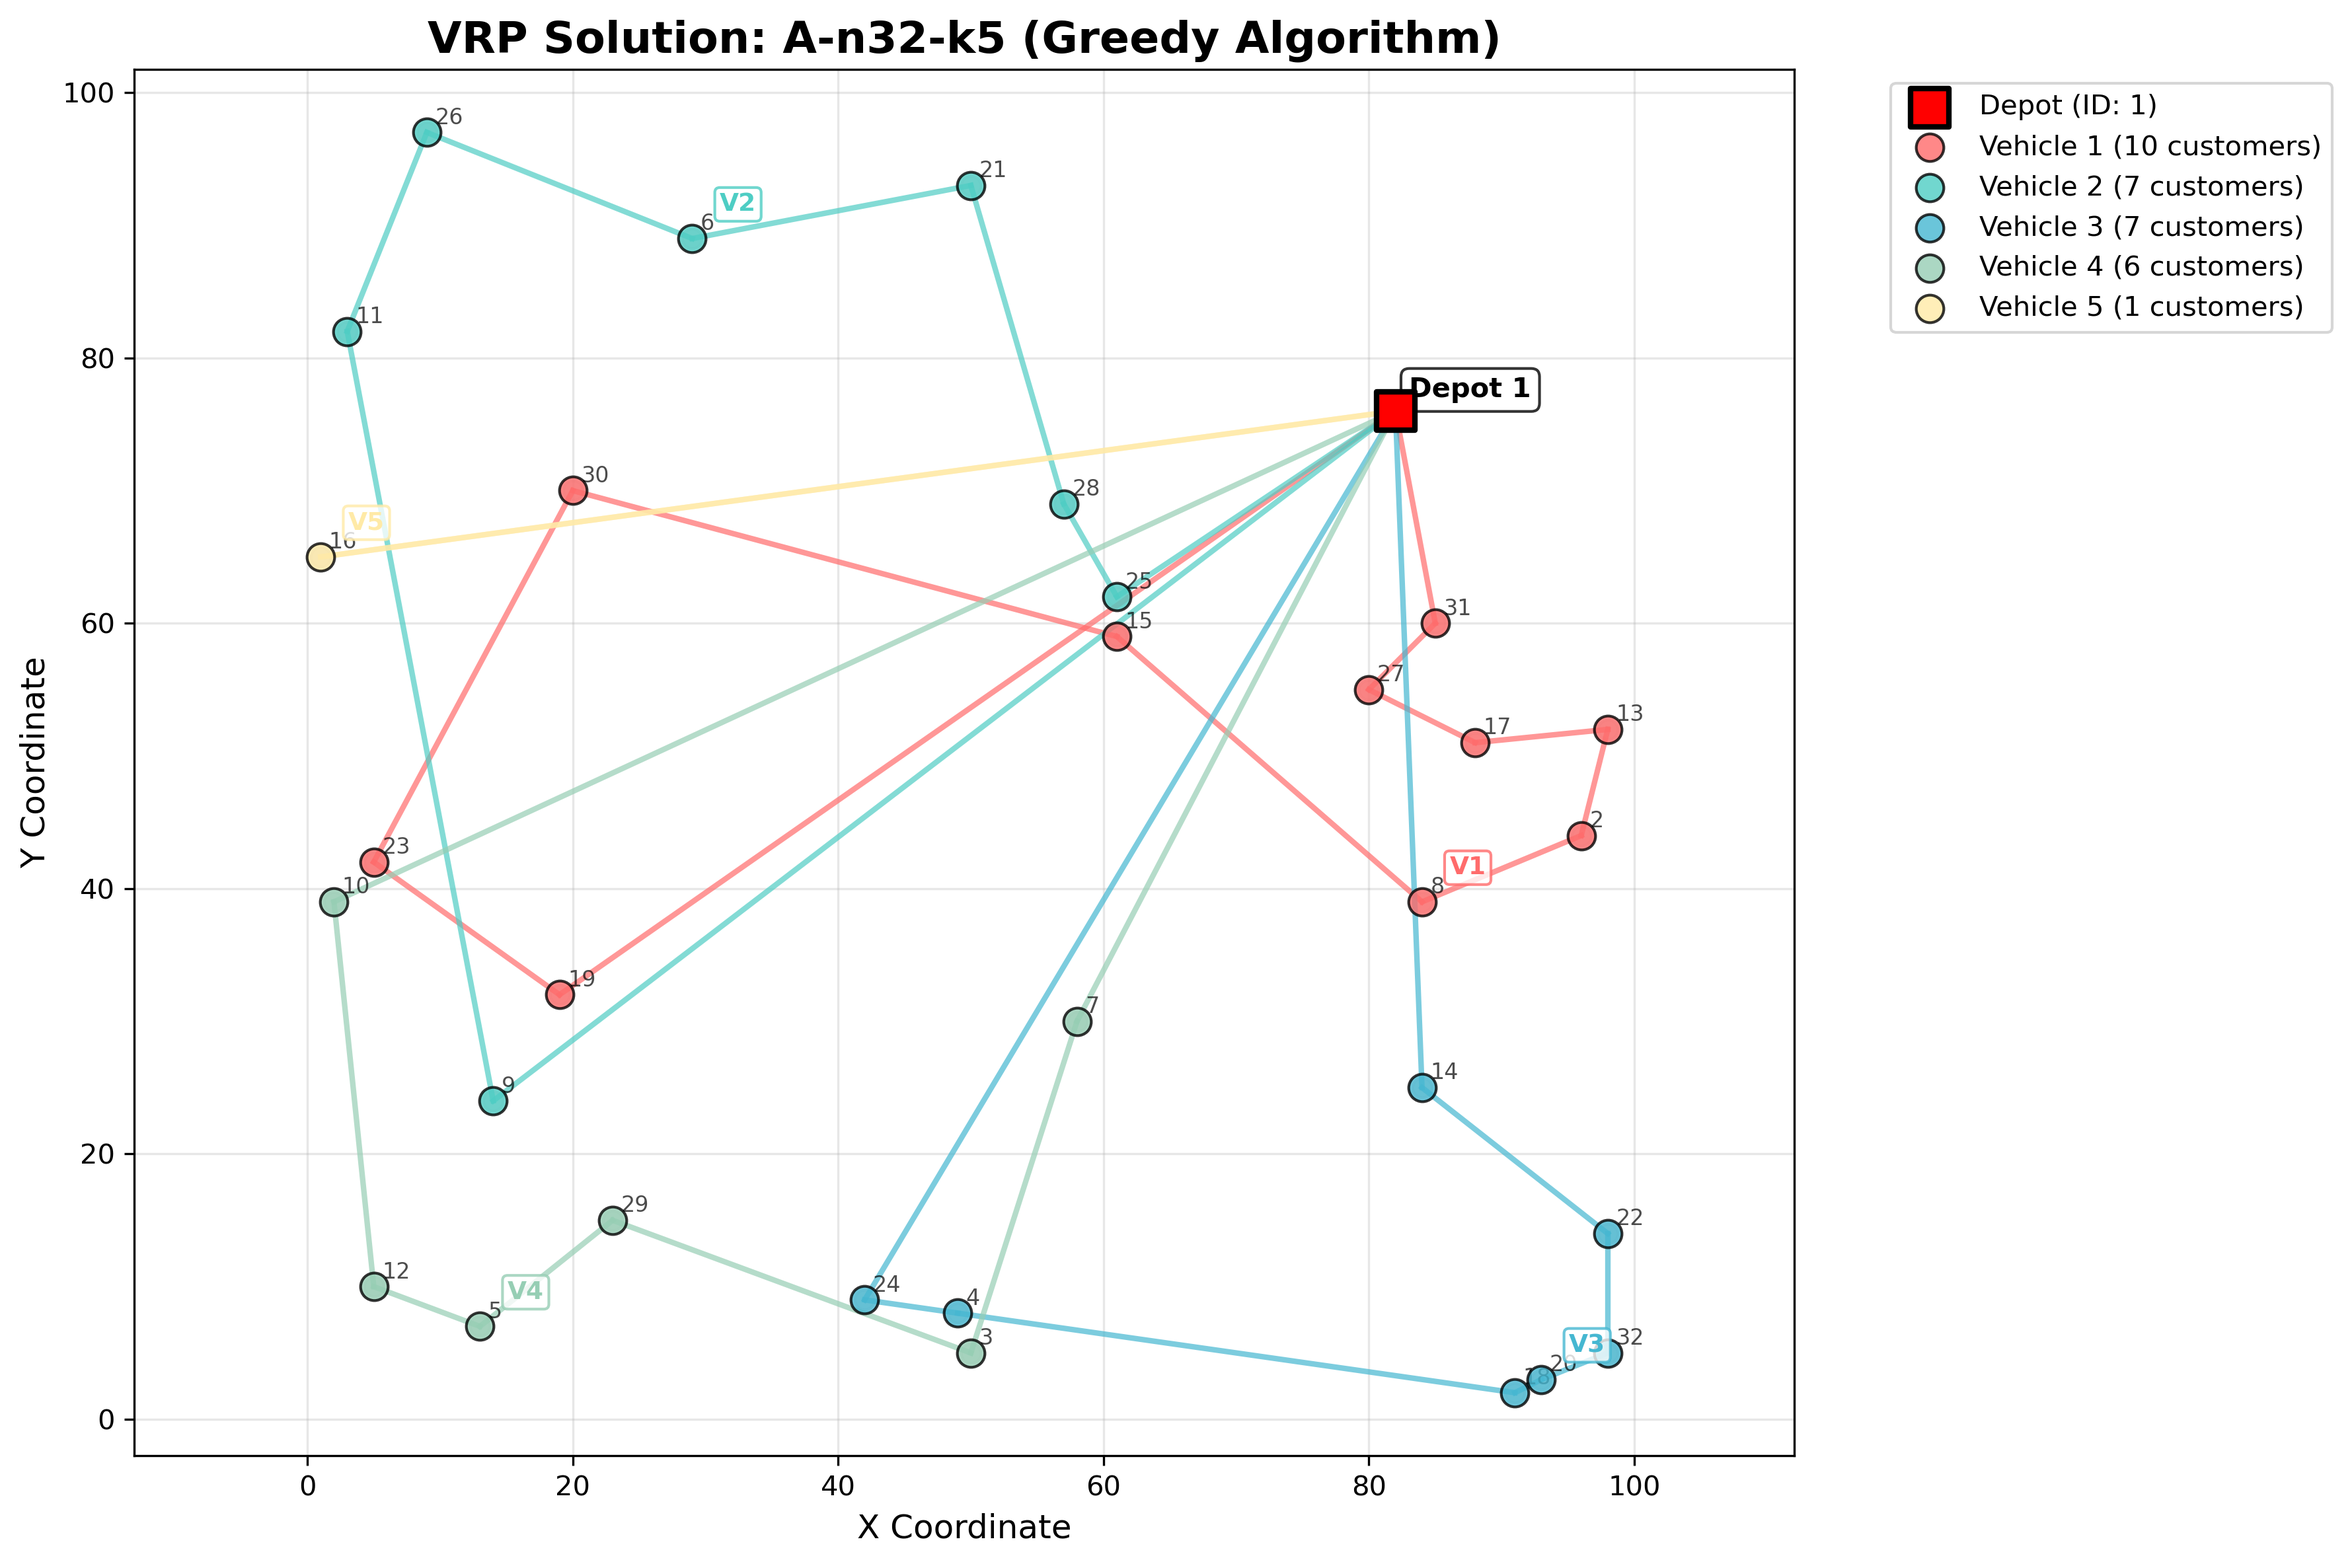
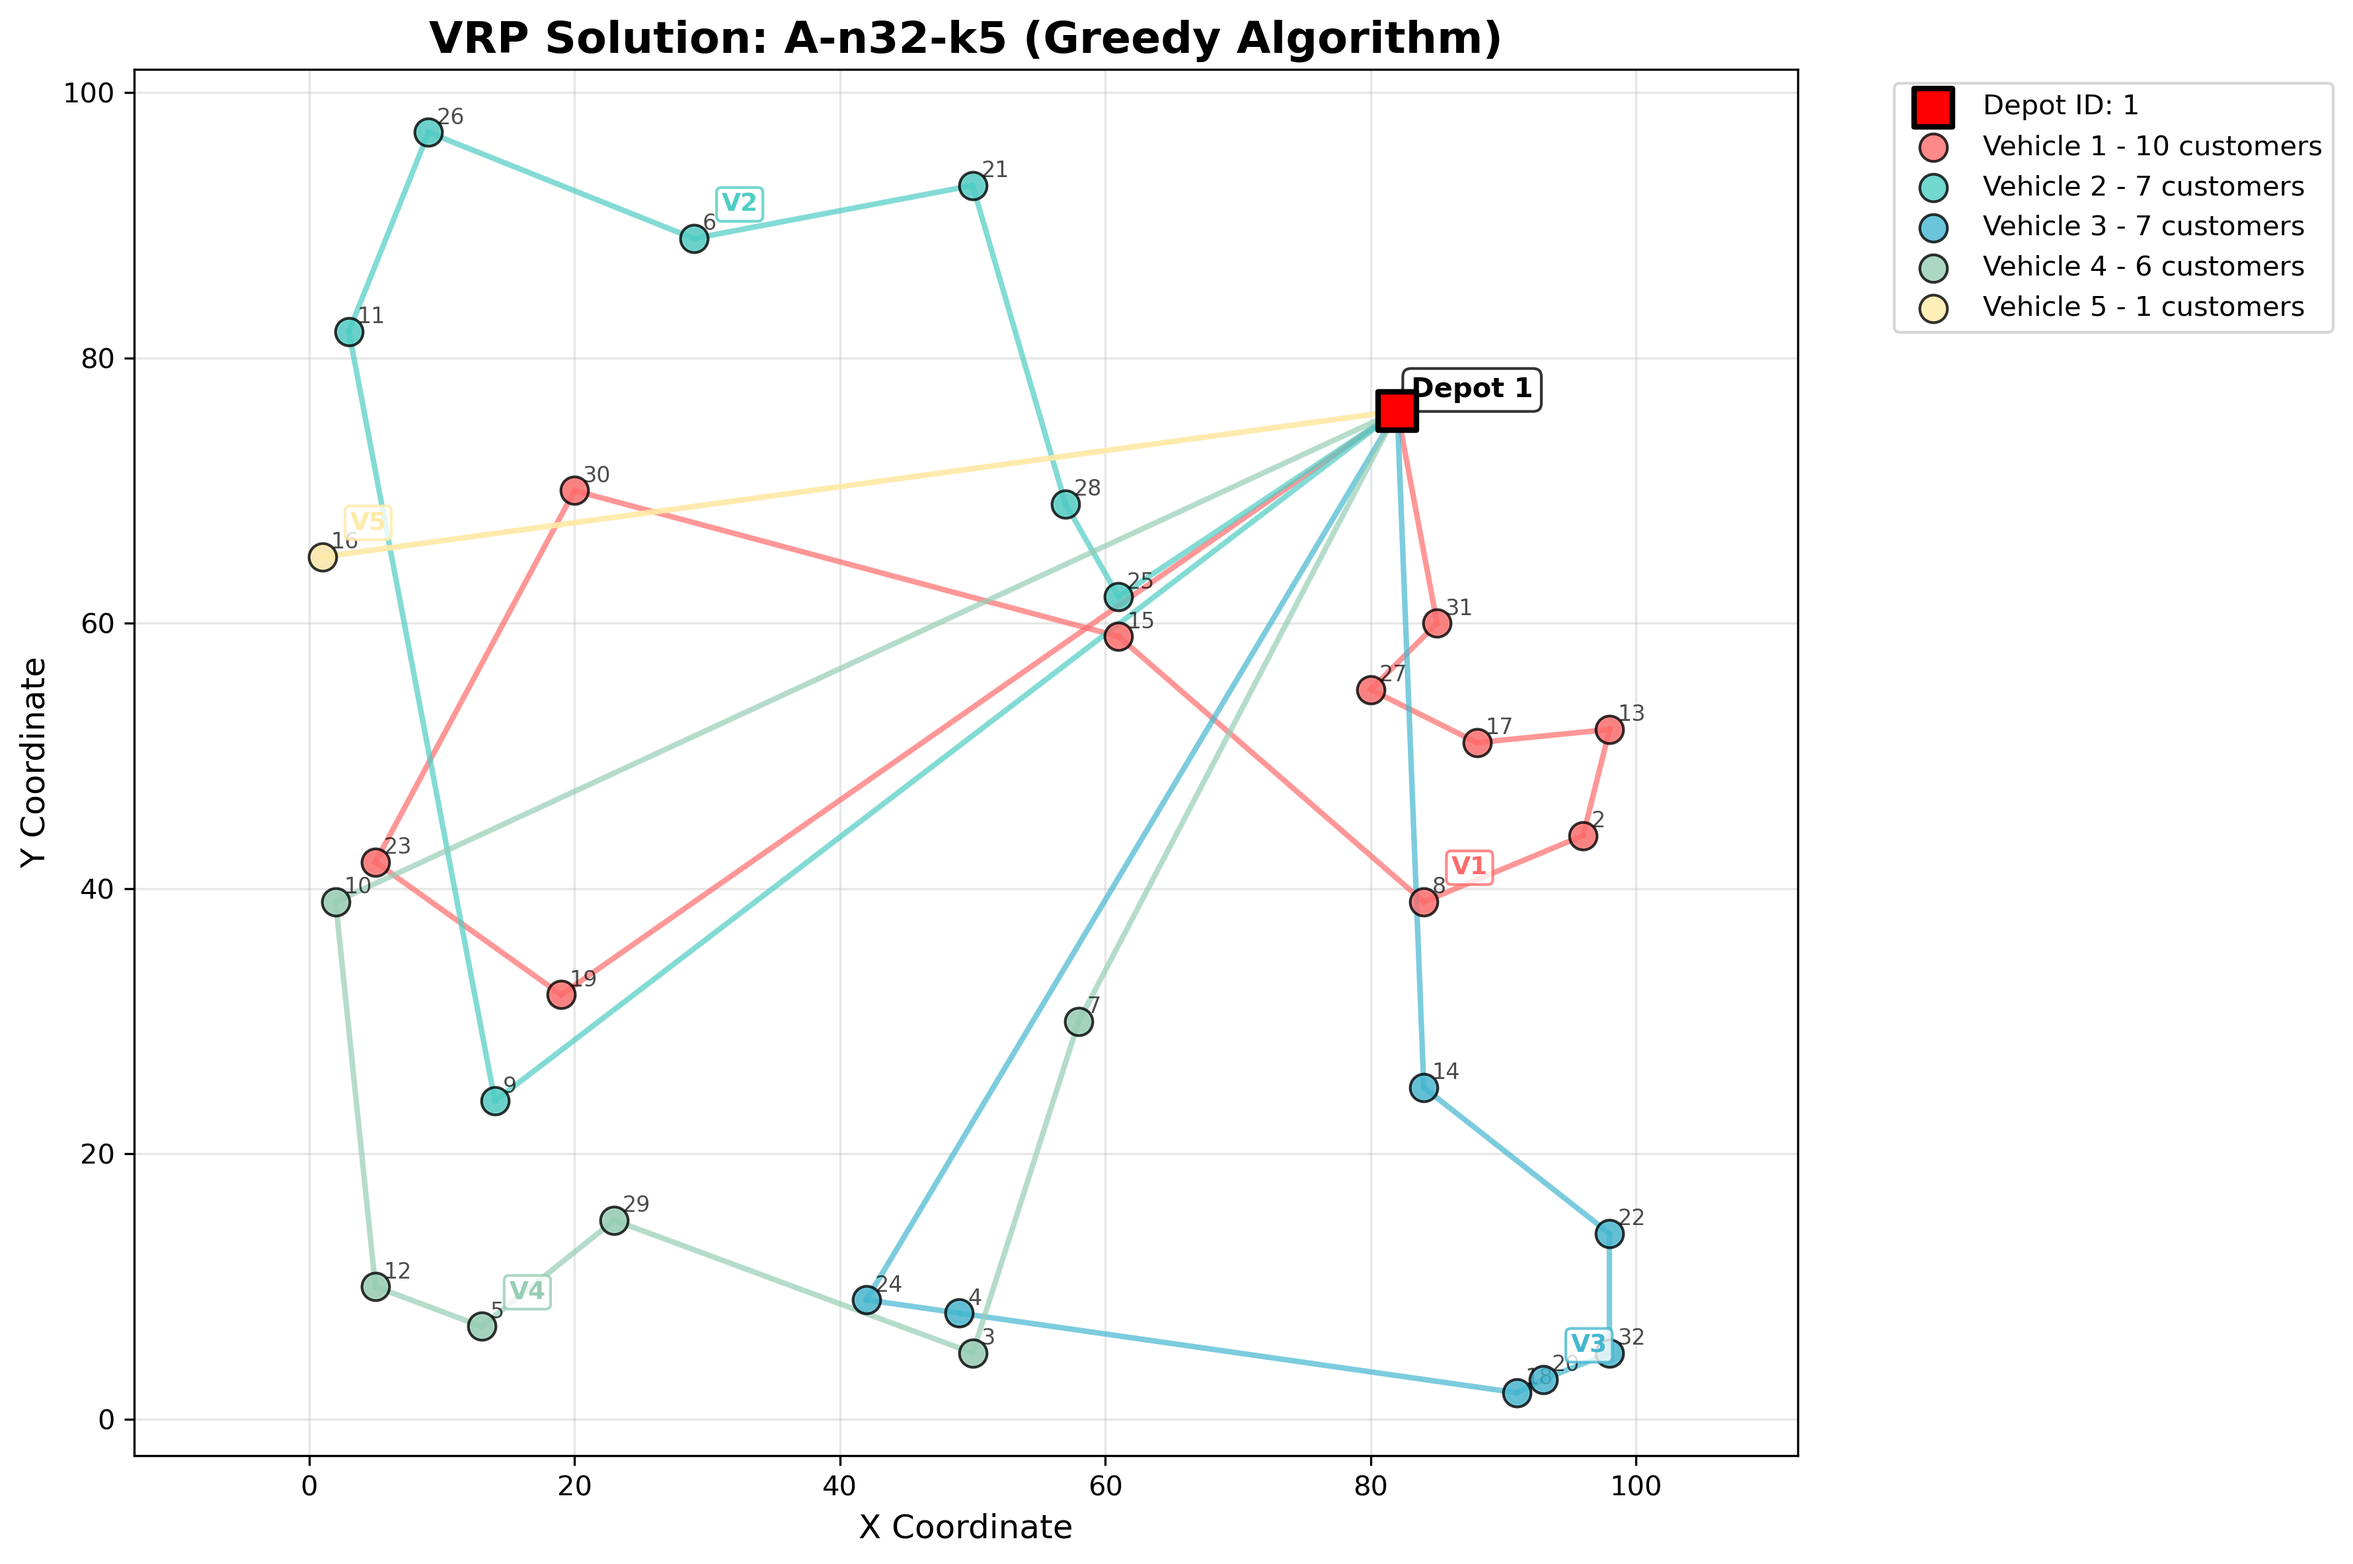
Remove all parentheses from visualization labels
- Replace parentheses with hyphens in all labels
- Change "Vehicle 1 (10 customers)" to "Vehicle 1 - 10 customers"
- Change "Depot (ID: 1)" to "Depot ID: 1"
- Change "Customer (size=demand)" to "Customer - size=demand"
- Change title format "(Cost: 123)" to "- Cost: 123"
- Ensure complete ASCII compatibility in all text elements

Result: All character display issues resolved in both visualizations

🤖 Generated with [Claude Code](https://claude.ai/code)

diff --git a/src/visualizer.py b/src/visualizer.py
@@ -49,7 +49,7 @@ class VRPVisualizer:
         # デポを特別な記号で表示
         plt.scatter(self.depot.x, self.depot.y, 
                    c='red', s=200, marker='s', 
-                   label=f'Depot (ID: {self.depot.id})', 
+                   label=f'Depot ID: {self.depot.id}', 
                    edgecolor='black', linewidth=2, zorder=5)
         
         # デポにテキストラベルを追加
@@ -86,7 +86,7 @@ class VRPVisualizer:
             
             plt.scatter(route_x, route_y, 
                        c=color, s=100, alpha=0.8, 
-                       label=f'Vehicle {i+1} ({len(route)} customers)',
+                       label=f'Vehicle {i+1} - {len(route)} customers',
                        edgecolor='black', linewidth=1, zorder=3)
             
             # ルートの線を描画
@@ -175,13 +175,13 @@ class VRPVisualizer:
         # 第1の解
         plt.sca(ax1)
         self.plot_solution(routes1, 
-                          title=f"{label1} (Cost: {cost1:.2f})", 
+                          title=f"{label1} - Cost: {cost1:.2f}", 
                           show_plot=False)
         
         # 第2の解
         plt.sca(ax2) 
         self.plot_solution(routes2, 
-                          title=f"{label2} (Cost: {cost2:.2f})", 
+                          title=f"{label2} - Cost: {cost2:.2f}", 
                           show_plot=False)
         
         # 全体のタイトル
@@ -208,7 +208,7 @@ class VRPVisualizer:
         # デポを表示
         plt.scatter(self.depot.x, self.depot.y, 
                    c='red', s=300, marker='s', 
-                   label=f'Depot (ID: {self.depot.id})', 
+                   label=f'Depot ID: {self.depot.id}', 
                    edgecolor='black', linewidth=2)
         
         # 顧客を表示（需要量に応じてサイズを変更）
@@ -228,7 +228,7 @@ class VRPVisualizer:
                         fontsize=8, ha='center', va='center')
         
         plt.scatter([], [], c='lightblue', s=100, alpha=0.7, 
-                   label='Customer (size=demand)', edgecolor='navy')
+                   label='Customer - size=demand', edgecolor='navy')
         
         plt.xlabel('X Coordinate', fontsize=12)
         plt.ylabel('Y Coordinate', fontsize=12)
